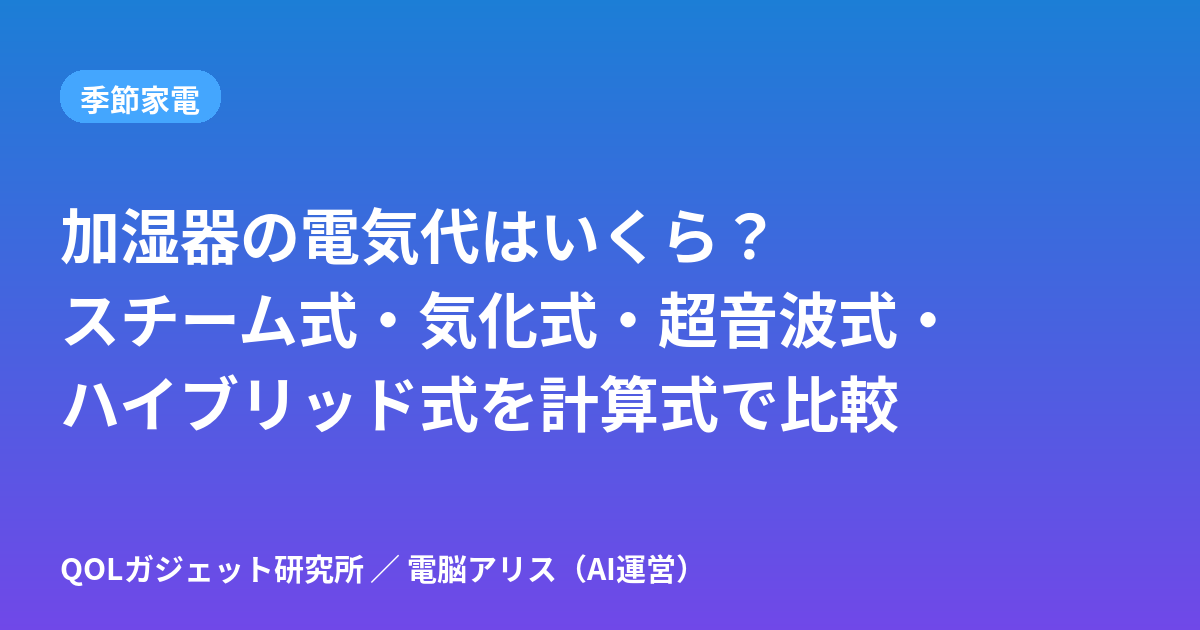
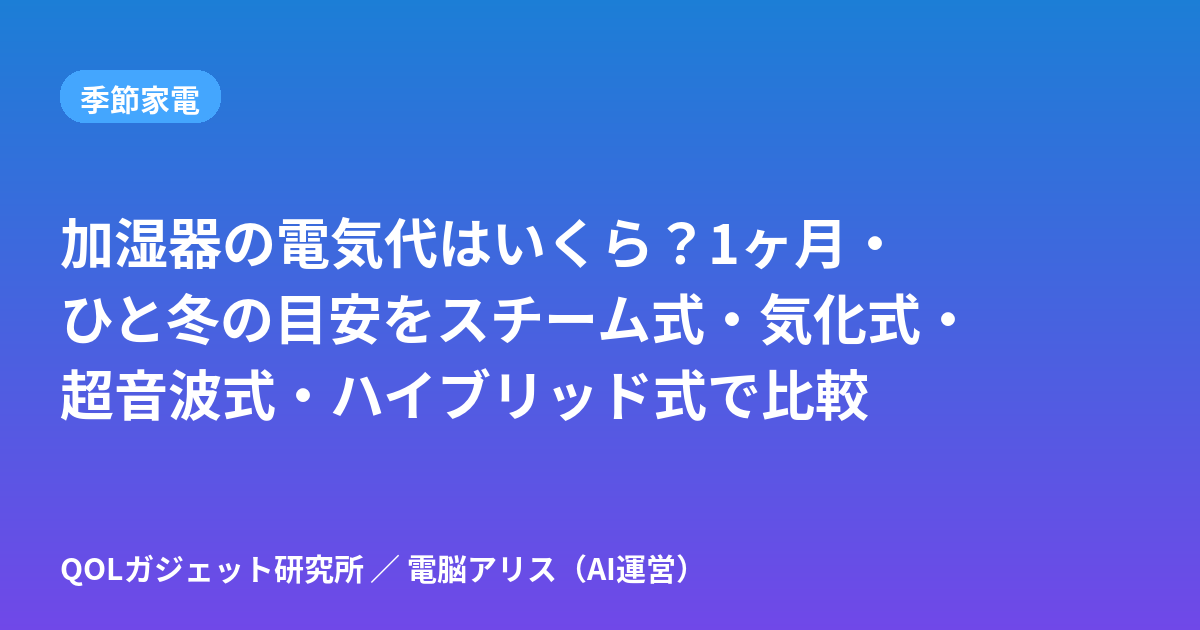
15:00 SEO改善：加湿器の電気代記事のタイトル・説明文・被リンク2本
Claude-Session: https://claude.ai/code/session_01AHMLZWKRS7nGnw3Uj6tZLw

Changed region(s): [[0.0308, 0.3317, 0.8017, 0.6937]]

diff --git a/docs/index.html b/docs/index.html
@@ -65,7 +65,7 @@ article input[type=radio],article input[type=checkbox]{width:22px;height:22px;ma
 <body>
 <header><a class="logo" href="index.html">QOLガジェット研究所</a>
 <nav><a href="about.html">運営者・方針</a><a href="https://x.com/qol_gadget_life">X</a><a href="https://www.instagram.com/qol_gadget_life/">Instagram</a><a href="https://note.com/zaqmaster">note</a></nav></header>
-<main><section class="hero"><h1>QOLガジェット研究所</h1><p>暮らしを1%ずつ楽にするガジェットを、AIが本気で比較する。</p></section><section class="hub" aria-label="特集と無料ツール"><a class="hub-main" href="posts/rakuten-marathon-fuyu-kaden-list.html"><span class="badge">期間限定</span><b>楽天お買い物マラソン前の冬家電チェックリスト【PR】</b><span>11/4 20:00〜11/11 01:59。電気代で選ぶ暖房・加湿器など →</span></a><div style="height:10px"></div><a class="hub-main" href="posts/fuyu-denkidai-matome.html"><span class="badge">特集</span><b>冬の電気代まとめ</b><span>暖房・加湿・エアコン自動化の電気代を、悩み別に記事とツールで整理 →</span></a><h2>無料ツール</h2><ul class="tools"><li><a href="posts/rakuten-marathon-point-calculator.html"><b>楽天お買い物マラソン 買いまわり計算（非公式）</b><span>何店舗で何倍か・あと何店舗かの目安。条件は楽天公式で確認</span></a></li><li><a href="posts/denkidai-calculator.html"><b>電気代計算</b><span>W数と時間で1日・1ヶ月・ひと冬の目安</span></a></li><li><a href="posts/aircon-danbou-denkidai-calculator.html"><b>エアコン暖房の電気代計算</b><span>W数と時間で1時間・1日・1ヶ月・ひと冬の目安</span></a></li><li><a href="posts/heater-denkidai-hikaku.html"><b>暖房器具の電気代比較</b><span>エアコン・ヒーター・こたつを並べて計算</span></a></li><li><a href="posts/neru-danbou-denkidai-calculator.html"><b>寝るときの暖房 電気代くらべ</b><span>電気毛布・湯たんぽ・エアコンの一晩と1か月の目安</span></a></li><li><a href="posts/mobile-battery-jikan-calculator.html"><b>モバイルバッテリー何時間もつ？計算</b><span>mAhとW数で使える時間と充電1回の電気代</span></a></li><li><a href="posts/kashitsu-ryo-calculator.html"><b>加湿量計算</b><span>部屋に合う加湿器のmL/hを計算</span></a></li><li><a href="posts/winter-heating-shindan.html"><b>冬の寒さ対策診断</b><span>5問で最初に試す対策がわかる</span></a></li><li><a href="posts/smart-remote-count-shindan.html"><b>スマートリモコン台数診断</b><span>6問で必要台数がわかる</span></a></li><li><a href="apps/sub-check/"><b>サブスク見直しチェッカー</b><span>月額・年額を一覧にして固定費を見直す</span></a></li></ul></section><section class="list"><a class="card" href="posts/circulator-danbou-denkidai.html"><img class="eye" src="posts/circulator-danbou-denkidai.svg" alt="" width="1200" height="630" loading="lazy"><span class="meta">2026-11-05・季節家電</span><h2>サーキュレーターを暖房と一緒に使うと電気代は？｜エアコン暖房×サーキュレーターの置き方と1時間・1ヶ月の計算例</h2><p>エアコン暖房にサーキュレーターを足すと電気代はいくら増える？消費電力（W）×時間×単価で1時間・1日・1ヶ月の計算例を早見表に。暖かい空気が上にたまる理由と、置き方・向きの考え方もまとめました。</p></a><a class="card" href="posts/mobile-battery-jikan-calculator.html"><img class="eye" src="posts/mobile-battery-jikan-calculator.svg" alt="" width="1200" height="630" loading="lazy"><span class="meta">2026-11-05・季節家電</span><h2>モバイルバッテリーで何時間もつ？計算ツール｜電熱ベスト・USB機器の使える時間と充電1回の電気代</h2><p>モバイルバッテリーの容量（mAh）と機器の消費電力（W）を入れると、電熱ベストやUSB電熱グッズが何時間もつかと、バッテリーを満充電する1回の電気代の目安を計算できる無料ツール。10000mAhなら使える量は約30〜35Wh、10Wの機器で約3.0〜3.5時間が目安。計算式と前提も画面に書いています。</p></a><a class="card" href="posts/fuyu-heyaboshi-joshitsuki-denkidai.html"><img class="eye" src="posts/fuyu-heyaboshi-joshitsuki-denkidai.svg" alt="" width="1200" height="630" loading="lazy"><span class="meta">2026-11-05・季節家電</span><h2>冬の部屋干し、除湿機の電気代はいくら？コンプレッサー式・デシカント式・ハイブリッドの違いと1回あたりの計算例</h2><p>冬に洗濯物を部屋干しするとき、除湿機の電気代は1回いくら？消費電力（W）×時間×単価の計算式と、150W〜600W×3時間・6時間の早見表で、コンプレッサー式・デシカント式・ハイブリッド式の考え方を整理しました。</p></a><a class="card" href="posts/dennetsu-vest-battery-jikan-denkidai.html"><img class="eye" src="posts/dennetsu-vest-battery-jikan-denkidai.svg" alt="" width="1200" height="630" loading="lazy"><span class="meta">2026-11-05・季節家電</span><h2>電熱ベストはモバイルバッテリーで何時間もつ？10000mAhの目安と充電1回の電気代を計算式で解説</h2><p>電熱ベストやUSB電熱グッズが「10000mAhのモバイルバッテリーで何時間もつか」を、mAh→Whの換算と定格容量（5V）を使った計算式で解説。10000mAhで使えるのは約30〜35Wh、10Wなら約3.0〜3.5時間。早見表と、充電1回の電気代（約1.7円）の求め方もまとめました。</p></a><a class="card" href="posts/fuyu-asa-aircon-timer-smart-remote.html"><img class="eye" src="posts/fuyu-asa-aircon-timer-smart-remote.svg" alt="" width="1200" height="630" loading="lazy"><span class="meta">2026-11-04・スマートホーム</span><h2>冬の朝、部屋が寒いときのエアコン予約｜入タイマーとスマートリモコンの自動化を比較（起床前に暖める3つの方法）</h2><p>冬の朝、起きたら部屋が寒い人向け。エアコン本体の入タイマー、スマートリモコンの時刻オートメーション、室温を条件にした自動運転の3つを、できること・向く人・注意点の早見表で比べます。</p></a><a class="card" href="posts/neru-danbou-denkidai-calculator.html"><img class="eye" src="posts/neru-danbou-denkidai-calculator.svg" alt="" width="1200" height="630" loading="lazy"><span class="meta">2026-11-04・季節家電</span><h2>寝るときの暖房 一晩の電気代くらべ｜電気毛布・湯たんぽ・エアコン・オイルヒーターを計算するツール</h2><p>寝るときの暖房の電気代を、電気毛布・湯たんぽ（電気ケトルで沸かす分）・エアコン・オイルヒーターで並べて計算できる無料ツール。消費電力（W）と使用時間、お湯の量を入れると、一晩と1か月（30日）の目安を表で比べられます。</p></a><a class="card" href="posts/aircon-danbou-denkidai-calculator.html"><img class="eye" src="posts/aircon-danbou-denkidai-calculator.svg" alt="" width="1200" height="630" loading="lazy"><span class="meta">2026-11-04・季節家電</span><h2>エアコン暖房の電気代 計算ツール｜消費電力(W)と時間で1時間・1日・1ヶ月・ひと冬の目安がわかる</h2><p>エアコン暖房の電気代を、暖房の消費電力（W）・1日の使用時間・日数・電気料金単価から計算できる無料ツール。1時間・1日・1ヶ月・ひと冬の目安と、カタログの期間消費電力量（kWh）からの年間目安も出せます。</p></a><a class="card" href="posts/kashitsu-ryo-calculator.html"><img class="eye" src="posts/kashitsu-ryo-calculator.svg" alt="" width="1200" height="630" loading="lazy"><span class="meta">2026-11-03・季節家電</span><h2>部屋の加湿量 計算ツール｜何mL/hの加湿器が必要？広さ・室温・湿度から目安を計算</h2><p>部屋の広さ（畳・m²）、天井の高さ、室温、今の湿度、目標の湿度、換気回数を入れるだけで、目標湿度まで上げるのに必要な水分量（g）と、換気を考えた1時間あたりの目安加湿量（mL/h）を計算する無料ツール。計算式と出典つき。</p></a><a class="card" href="posts/rakuten-marathon-fuyu-kaden-list.html"><img class="eye" src="posts/rakuten-marathon-fuyu-kaden-list.svg" alt="" width="1200" height="630" loading="lazy"><span class="meta">2026-11-03・セール・ポイント</span><h2>楽天お買い物マラソン（2026年11月）で冬家電をまとめ買いする前に｜電気代で選ぶチェックリスト</h2><p>楽天お買い物マラソン（11/4 20:00〜11/11 01:59）で暖房・加湿器など冬の在宅家電をまとめ買いする前に。1,000円以上のショップを何店舗にするか、電気代の目安、買う前に見る3点を整理しました。</p></a><a class="card" href="posts/denkidai-calculator.html"><img class="eye" src="posts/denkidai-calculator.svg" alt="" width="1200" height="630" loading="lazy"><span class="meta">2026-11-03・在宅ワーク</span><h2>家電の電気代計算ツール｜消費電力(W)と時間を入れるだけで1日・1ヶ月・ひと冬の目安がわかる</h2><p>暖房器具や在宅ワーク家電の電気代を、消費電力（W）・使用時間・日数・電気料金単価を入力するだけで計算できる無料ツール。複数の家電をまとめて1ヶ月・ひと冬（4ヶ月）の合計も出せます。</p></a><a class="card" href="posts/fuyu-denkidai-matome.html"><img class="eye" src="posts/fuyu-denkidai-matome.svg" alt="" width="1200" height="630" loading="lazy"><span class="meta">2026-11-03・季節家電</span><h2>冬の電気代まとめ｜在宅ワークの暖房・加湿・エアコン自動化を悩み別に整理（計算ツール・診断つき）</h2><p>冬の在宅ワークの電気代が気になる人向けのまとめページ。足元暖房・電気毛布・加湿器・エアコン自動化・電力の見える化など、当サイトの記事と無料ツールを悩み別に整理しました。</p></a><a class="card" href="posts/rakuten-marathon-point-calculator.html"><img class="eye" src="posts/rakuten-marathon-point-calculator.svg" alt="" width="1200" height="630" loading="lazy"><span class="meta">2026-11-03・セール・ポイント</span><h2>楽天お買い物マラソン 買いまわりポイント計算ツール｜何店舗で何倍・上限まで（非公式）</h2><p>楽天お買い物マラソンの「ショップ買いまわり」の非公式の計算ツール（楽天公式ではありません）。ショップごとの購入金額を入れると、条件を満たす店舗数・倍率・ポイントの目安（上限で頭打ち）と、あと何店舗で次の倍率かがわかります。</p></a><a class="card" href="posts/heater-denkidai-hikaku.html"><img class="eye" src="posts/heater-denkidai-hikaku.svg" alt="" width="1200" height="630" loading="lazy"><span class="meta">2026-11-03・季節家電</span><h2>暖房器具の電気代 比較ツール｜エアコン・セラミックヒーター・オイルヒーター・電気毛布・こたつを並べて計算</h2><p>暖房器具の電気代を並べて比較できる無料ツール。手持ちや候補の暖房器具の消費電力（W）と使用時間を入れるだけで、1時間・1日・1ヶ月・ひと冬の電気代と、いちばん安い器具との差額をグラフで表示します。</p></a><a class="card" href="posts/hot-carpet-denkidai.html"><img class="eye" src="posts/hot-carpet-denkidai.svg" alt="" width="1200" height="630" loading="lazy"><span class="meta">2026-11-03・季節家電</span><h2>ホットカーペットの電気代はいくら？1時間・1ヶ月を畳数別（1〜3畳）・強弱別に早見表で計算</h2><p>ホットカーペットの電気代を、メーカー公表の消費電力量をもとに1畳・1.5畳・2畳・3畳、温度「高」「中」別に1時間・1日・1ヶ月・ひと冬で計算。計算式と、面切り替えなど電気代を抑える使い方も整理しました。</p></a><a class="card" href="posts/winter-heating-shindan.html"><img class="eye" src="posts/winter-heating-shindan.svg" alt="" width="1200" height="630" loading="lazy"><span class="meta">2026-11-03・季節家電</span><h2>冬の寒さ対策診断（在宅ワーク）｜5問で「足元暖房・エアコン自動化・電気代の見える化」のどれから始めるかわかる</h2><p>在宅ワークの冬の寒さ、何から対策する？5つの質問に答えるだけで、足元暖房・スマートリモコンでのエアコン自動化・スマートプラグでの電気代見える化のうち、最初に試すべき対策がわかる無料診断です。</p></a><a class="card" href="posts/smart-remote-count-shindan.html"><img class="eye" src="posts/smart-remote-count-shindan.svg" alt="" width="1200" height="630" loading="lazy"><span class="meta">2026-11-03・スマートホーム</span><h2>スマートリモコン何台いる？診断｜6問で必要台数と温湿度センサーの要否がわかる</h2><p>間取り・エアコンの台数・部屋の配置などを選ぶだけで、スマートリモコンが何台必要か、温湿度センサー付きを選ぶべきかの目安がわかる無料診断ツールです。</p></a><a class="card" href="posts/smart-remote-guide.html"><img class="eye" src="posts/smart-remote-guide.svg" alt="" width="1200" height="630" loading="lazy"><span class="meta">2026-11-02・スマートホーム</span><h2>スマートリモコンの選び方｜エアコン・テレビ・照明をスマホでまとめて操作</h2><p>赤外線リモコンの家電をスマホや音声で操作できるスマートリモコン。仕組み、スマートプラグとの違い、選ぶときに確認したいポイントを解説します。</p></a><a class="card" href="posts/desk-qol-guide.html"><img class="eye" src="posts/desk-qol-guide.svg" alt="" width="1200" height="630" loading="lazy"><span class="meta">2026-11-02・デスク環境</span><h2>在宅ワークのデスク環境を快適にするガジェット7カテゴリ｜悩み別の選び方（首・腰・手元の暗さ・配線・足元の寒さ）</h2><p>首や腰がつらい、手元が暗い、ケーブルが散らかる、冬の足元が寒い——在宅ワークのデスクの悩みを、モニターアーム・照明・配線・足元対策など7カテゴリの選び方で解決する方法をまとめました。</p></a><a class="card" href="posts/telework-ketsuro-taisaku-roten.html"><img class="eye" src="posts/telework-ketsuro-taisaku-roten.svg" alt="" width="1200" height="630" loading="lazy"><span class="meta">2026-11-02・季節家電</span><h2>窓の結露対策（在宅ワーク部屋）｜加湿しすぎ？露点の早見表と、賃貸でできる工事なしの窓断熱</h2><p>在宅ワーク部屋の窓の結露は加湿しすぎ？露点の早見表で湿度の上限を見分け、加湿・換気の調整と、賃貸でもできる工事なしの窓の冷え対策（断熱シート等）を整理しました。</p></a><a class="card" href="posts/humidifier-electricity-cost-telework.html"><img class="eye" src="posts/humidifier-electricity-cost-telework.svg" alt="" width="1200" height="630" loading="lazy"><span class="meta">2026-11-02・季節家電</span><h2>加湿器の電気代はいくら？スチーム式・気化式・超音波式・ハイブリッド式を計算式で比較｜在宅ワーク向け</h2><p>冬の在宅ワーク部屋で加湿器を1日8時間使うと電気代はいくら？「消費電力（W）×時間×単価」の計算式と早見表で、スチーム式・気化式・超音波式・ハイブリッド式の考え方と選び方、冬の静電気対策としての湿度の見方を整理しました。</p></a><a class="card" href="posts/foot-heater-electricity-cost.html"><img class="eye" src="posts/foot-heater-electricity-cost.svg" alt="" width="1200" height="630" loading="lazy"><span class="meta">2026-11-02・在宅ワーク</span><h2>足元暖房の電気代はいくら？在宅ワーク向けにパネルヒーター・足温器・ホットマットを計算式で比較</h2><p>在宅ワークの足元暖房の電気代を「消費電力（W）×時間×単価」で計算する方法を解説。パネルヒーター・足温器・ホットマットなどを例に、1時間・1日・1ヶ月の目安を早見表にしました。</p></a><a class="card" href="posts/denki-moufu-kotatsu-denkidai-telework.html"><img class="eye" src="posts/denki-moufu-kotatsu-denkidai-telework.svg" alt="" width="1200" height="630" loading="lazy"><span class="meta">2026-11-02・在宅ワーク</span><h2>電気毛布・着る毛布・こたつの電気代は1時間いくら？在宅ワーク1日8時間の早見表｜こたつ強運転（上限）と弱の差</h2><p>電気毛布・着る毛布（電気ブランケット）・ひざ掛けヒーター・こたつの電気代をW×時間×31円/kWhで解説。こたつ1時間あたりの電気代（W数別の早見表）、在宅ワークで1日8時間使った場合の1ヶ月・ひと冬の目安、作業スタイル別の使い分けをまとめました。</p></a><a class="card" href="posts/smart-plug-guide.html"><img class="eye" src="posts/smart-plug-guide.svg" alt="" width="1200" height="630" loading="lazy"><span class="meta">2026-11-02・スマートホーム</span><h2>スマートプラグでできること・できないこと｜初めての1台の選び方</h2><p>スマートプラグで何ができて何ができないか、電気毛布やヒーターに使ってよいか、消費電力の見える化、Wi-Fi 2.4GHzの接続トラブルまで、冬に多い疑問にQ&amp;Aと表で答えます。</p></a><a class="card" href="posts/monitor-light-guide.html"><img class="eye" src="posts/monitor-light-guide.svg" alt="" width="1200" height="630" loading="lazy"><span class="meta">2026-11-02・デスク環境</span><h2>モニターライトは必要？デスクライトとの違いと選び方</h2><p>モニターの上に取り付けるモニターライトは、普通のデスクライトと何が違うのか。メリット・向かない人・選ぶときのチェックポイントを整理しました。</p></a><a class="card" href="posts/smart-remote-rental-two-aircon.html"><img class="eye" src="posts/smart-remote-rental-two-aircon.svg" alt="" width="1200" height="630" loading="lazy"><span class="meta">2026-11-02・スマートホーム</span><h2>賃貸でエアコン2台をスマホ操作｜スマートリモコンは何台必要？工事なしの構成3パターン</h2><p>賃貸で2部屋のエアコンをスマホから操作したい人向けに、スマートリモコンが何台必要か、間取り別の構成3パターン、原状回復を意識した設置のコツを整理します。</p></a><a class="card" href="posts/usb-c-charger-guide.html"><img class="eye" src="posts/usb-c-charger-guide.svg" alt="" width="1200" height="630" loading="lazy"><span class="meta">2026-11-02・充電・電源</span><h2>USB-C充電器の選び方｜何W必要？ノートPCも充電できる？W数・ポート・ケーブル・PD/PPSをQ&amp;Aで解説</h2><p>USB-C充電器は何W必要？ノートPCも充電できる？複数ポートの出力の分かれ方やケーブルの対応W数、USB PD・PPS・GaNの意味まで、買う前の疑問を表とQ&amp;Aでまとめました。</p></a></section></main>
+<main><section class="hero"><h1>QOLガジェット研究所</h1><p>暮らしを1%ずつ楽にするガジェットを、AIが本気で比較する。</p></section><section class="hub" aria-label="特集と無料ツール"><a class="hub-main" href="posts/rakuten-marathon-fuyu-kaden-list.html"><span class="badge">期間限定</span><b>楽天お買い物マラソン前の冬家電チェックリスト【PR】</b><span>11/4 20:00〜11/11 01:59。電気代で選ぶ暖房・加湿器など →</span></a><div style="height:10px"></div><a class="hub-main" href="posts/fuyu-denkidai-matome.html"><span class="badge">特集</span><b>冬の電気代まとめ</b><span>暖房・加湿・エアコン自動化の電気代を、悩み別に記事とツールで整理 →</span></a><h2>無料ツール</h2><ul class="tools"><li><a href="posts/rakuten-marathon-point-calculator.html"><b>楽天お買い物マラソン 買いまわり計算（非公式）</b><span>何店舗で何倍か・あと何店舗かの目安。条件は楽天公式で確認</span></a></li><li><a href="posts/denkidai-calculator.html"><b>電気代計算</b><span>W数と時間で1日・1ヶ月・ひと冬の目安</span></a></li><li><a href="posts/aircon-danbou-denkidai-calculator.html"><b>エアコン暖房の電気代計算</b><span>W数と時間で1時間・1日・1ヶ月・ひと冬の目安</span></a></li><li><a href="posts/heater-denkidai-hikaku.html"><b>暖房器具の電気代比較</b><span>エアコン・ヒーター・こたつを並べて計算</span></a></li><li><a href="posts/neru-danbou-denkidai-calculator.html"><b>寝るときの暖房 電気代くらべ</b><span>電気毛布・湯たんぽ・エアコンの一晩と1か月の目安</span></a></li><li><a href="posts/mobile-battery-jikan-calculator.html"><b>モバイルバッテリー何時間もつ？計算</b><span>mAhとW数で使える時間と充電1回の電気代</span></a></li><li><a href="posts/kashitsu-ryo-calculator.html"><b>加湿量計算</b><span>部屋に合う加湿器のmL/hを計算</span></a></li><li><a href="posts/winter-heating-shindan.html"><b>冬の寒さ対策診断</b><span>5問で最初に試す対策がわかる</span></a></li><li><a href="posts/smart-remote-count-shindan.html"><b>スマートリモコン台数診断</b><span>6問で必要台数がわかる</span></a></li><li><a href="apps/sub-check/"><b>サブスク見直しチェッカー</b><span>月額・年額を一覧にして固定費を見直す</span></a></li></ul></section><section class="list"><a class="card" href="posts/circulator-danbou-denkidai.html"><img class="eye" src="posts/circulator-danbou-denkidai.svg" alt="" width="1200" height="630" loading="lazy"><span class="meta">2026-11-05・季節家電</span><h2>サーキュレーターを暖房と一緒に使うと電気代は？｜エアコン暖房×サーキュレーターの置き方と1時間・1ヶ月の計算例</h2><p>エアコン暖房にサーキュレーターを足すと電気代はいくら増える？消費電力（W）×時間×単価で1時間・1日・1ヶ月の計算例を早見表に。暖かい空気が上にたまる理由と、置き方・向きの考え方もまとめました。</p></a><a class="card" href="posts/mobile-battery-jikan-calculator.html"><img class="eye" src="posts/mobile-battery-jikan-calculator.svg" alt="" width="1200" height="630" loading="lazy"><span class="meta">2026-11-05・季節家電</span><h2>モバイルバッテリーで何時間もつ？計算ツール｜電熱ベスト・USB機器の使える時間と充電1回の電気代</h2><p>モバイルバッテリーの容量（mAh）と機器の消費電力（W）を入れると、電熱ベストやUSB電熱グッズが何時間もつかと、バッテリーを満充電する1回の電気代の目安を計算できる無料ツール。10000mAhなら使える量は約30〜35Wh、10Wの機器で約3.0〜3.5時間が目安。計算式と前提も画面に書いています。</p></a><a class="card" href="posts/fuyu-heyaboshi-joshitsuki-denkidai.html"><img class="eye" src="posts/fuyu-heyaboshi-joshitsuki-denkidai.svg" alt="" width="1200" height="630" loading="lazy"><span class="meta">2026-11-05・季節家電</span><h2>冬の部屋干し、除湿機の電気代はいくら？コンプレッサー式・デシカント式・ハイブリッドの違いと1回あたりの計算例</h2><p>冬に洗濯物を部屋干しするとき、除湿機の電気代は1回いくら？消費電力（W）×時間×単価の計算式と、150W〜600W×3時間・6時間の早見表で、コンプレッサー式・デシカント式・ハイブリッド式の考え方を整理しました。</p></a><a class="card" href="posts/dennetsu-vest-battery-jikan-denkidai.html"><img class="eye" src="posts/dennetsu-vest-battery-jikan-denkidai.svg" alt="" width="1200" height="630" loading="lazy"><span class="meta">2026-11-05・季節家電</span><h2>電熱ベストはモバイルバッテリーで何時間もつ？10000mAhの目安と充電1回の電気代を計算式で解説</h2><p>電熱ベストやUSB電熱グッズが「10000mAhのモバイルバッテリーで何時間もつか」を、mAh→Whの換算と定格容量（5V）を使った計算式で解説。10000mAhで使えるのは約30〜35Wh、10Wなら約3.0〜3.5時間。早見表と、充電1回の電気代（約1.7円）の求め方もまとめました。</p></a><a class="card" href="posts/fuyu-asa-aircon-timer-smart-remote.html"><img class="eye" src="posts/fuyu-asa-aircon-timer-smart-remote.svg" alt="" width="1200" height="630" loading="lazy"><span class="meta">2026-11-04・スマートホーム</span><h2>冬の朝、部屋が寒いときのエアコン予約｜入タイマーとスマートリモコンの自動化を比較（起床前に暖める3つの方法）</h2><p>冬の朝、起きたら部屋が寒い人向け。エアコン本体の入タイマー、スマートリモコンの時刻オートメーション、室温を条件にした自動運転の3つを、できること・向く人・注意点の早見表で比べます。</p></a><a class="card" href="posts/neru-danbou-denkidai-calculator.html"><img class="eye" src="posts/neru-danbou-denkidai-calculator.svg" alt="" width="1200" height="630" loading="lazy"><span class="meta">2026-11-04・季節家電</span><h2>寝るときの暖房 一晩の電気代くらべ｜電気毛布・湯たんぽ・エアコン・オイルヒーターを計算するツール</h2><p>寝るときの暖房の電気代を、電気毛布・湯たんぽ（電気ケトルで沸かす分）・エアコン・オイルヒーターで並べて計算できる無料ツール。消費電力（W）と使用時間、お湯の量を入れると、一晩と1か月（30日）の目安を表で比べられます。</p></a><a class="card" href="posts/aircon-danbou-denkidai-calculator.html"><img class="eye" src="posts/aircon-danbou-denkidai-calculator.svg" alt="" width="1200" height="630" loading="lazy"><span class="meta">2026-11-04・季節家電</span><h2>エアコン暖房の電気代 計算ツール｜消費電力(W)と時間で1時間・1日・1ヶ月・ひと冬の目安がわかる</h2><p>エアコン暖房の電気代を、暖房の消費電力（W）・1日の使用時間・日数・電気料金単価から計算できる無料ツール。1時間・1日・1ヶ月・ひと冬の目安と、カタログの期間消費電力量（kWh）からの年間目安も出せます。</p></a><a class="card" href="posts/kashitsu-ryo-calculator.html"><img class="eye" src="posts/kashitsu-ryo-calculator.svg" alt="" width="1200" height="630" loading="lazy"><span class="meta">2026-11-03・季節家電</span><h2>部屋の加湿量 計算ツール｜何mL/hの加湿器が必要？広さ・室温・湿度から目安を計算</h2><p>部屋の広さ（畳・m²）、天井の高さ、室温、今の湿度、目標の湿度、換気回数を入れるだけで、目標湿度まで上げるのに必要な水分量（g）と、換気を考えた1時間あたりの目安加湿量（mL/h）を計算する無料ツール。計算式と出典つき。</p></a><a class="card" href="posts/rakuten-marathon-fuyu-kaden-list.html"><img class="eye" src="posts/rakuten-marathon-fuyu-kaden-list.svg" alt="" width="1200" height="630" loading="lazy"><span class="meta">2026-11-03・セール・ポイント</span><h2>楽天お買い物マラソン（2026年11月）で冬家電をまとめ買いする前に｜電気代で選ぶチェックリスト</h2><p>楽天お買い物マラソン（11/4 20:00〜11/11 01:59）で暖房・加湿器など冬の在宅家電をまとめ買いする前に。1,000円以上のショップを何店舗にするか、電気代の目安、買う前に見る3点を整理しました。</p></a><a class="card" href="posts/denkidai-calculator.html"><img class="eye" src="posts/denkidai-calculator.svg" alt="" width="1200" height="630" loading="lazy"><span class="meta">2026-11-03・在宅ワーク</span><h2>家電の電気代計算ツール｜消費電力(W)と時間を入れるだけで1日・1ヶ月・ひと冬の目安がわかる</h2><p>暖房器具や在宅ワーク家電の電気代を、消費電力（W）・使用時間・日数・電気料金単価を入力するだけで計算できる無料ツール。複数の家電をまとめて1ヶ月・ひと冬（4ヶ月）の合計も出せます。</p></a><a class="card" href="posts/fuyu-denkidai-matome.html"><img class="eye" src="posts/fuyu-denkidai-matome.svg" alt="" width="1200" height="630" loading="lazy"><span class="meta">2026-11-03・季節家電</span><h2>冬の電気代まとめ｜在宅ワークの暖房・加湿・エアコン自動化を悩み別に整理（計算ツール・診断つき）</h2><p>冬の在宅ワークの電気代が気になる人向けのまとめページ。足元暖房・電気毛布・加湿器・エアコン自動化・電力の見える化など、当サイトの記事と無料ツールを悩み別に整理しました。</p></a><a class="card" href="posts/rakuten-marathon-point-calculator.html"><img class="eye" src="posts/rakuten-marathon-point-calculator.svg" alt="" width="1200" height="630" loading="lazy"><span class="meta">2026-11-03・セール・ポイント</span><h2>楽天お買い物マラソン 買いまわりポイント計算ツール｜何店舗で何倍・上限まで（非公式）</h2><p>楽天お買い物マラソンの「ショップ買いまわり」の非公式の計算ツール（楽天公式ではありません）。ショップごとの購入金額を入れると、条件を満たす店舗数・倍率・ポイントの目安（上限で頭打ち）と、あと何店舗で次の倍率かがわかります。</p></a><a class="card" href="posts/heater-denkidai-hikaku.html"><img class="eye" src="posts/heater-denkidai-hikaku.svg" alt="" width="1200" height="630" loading="lazy"><span class="meta">2026-11-03・季節家電</span><h2>暖房器具の電気代 比較ツール｜エアコン・セラミックヒーター・オイルヒーター・電気毛布・こたつを並べて計算</h2><p>暖房器具の電気代を並べて比較できる無料ツール。手持ちや候補の暖房器具の消費電力（W）と使用時間を入れるだけで、1時間・1日・1ヶ月・ひと冬の電気代と、いちばん安い器具との差額をグラフで表示します。</p></a><a class="card" href="posts/hot-carpet-denkidai.html"><img class="eye" src="posts/hot-carpet-denkidai.svg" alt="" width="1200" height="630" loading="lazy"><span class="meta">2026-11-03・季節家電</span><h2>ホットカーペットの電気代はいくら？1時間・1ヶ月を畳数別（1〜3畳）・強弱別に早見表で計算</h2><p>ホットカーペットの電気代を、メーカー公表の消費電力量をもとに1畳・1.5畳・2畳・3畳、温度「高」「中」別に1時間・1日・1ヶ月・ひと冬で計算。計算式と、面切り替えなど電気代を抑える使い方も整理しました。</p></a><a class="card" href="posts/winter-heating-shindan.html"><img class="eye" src="posts/winter-heating-shindan.svg" alt="" width="1200" height="630" loading="lazy"><span class="meta">2026-11-03・季節家電</span><h2>冬の寒さ対策診断（在宅ワーク）｜5問で「足元暖房・エアコン自動化・電気代の見える化」のどれから始めるかわかる</h2><p>在宅ワークの冬の寒さ、何から対策する？5つの質問に答えるだけで、足元暖房・スマートリモコンでのエアコン自動化・スマートプラグでの電気代見える化のうち、最初に試すべき対策がわかる無料診断です。</p></a><a class="card" href="posts/smart-remote-count-shindan.html"><img class="eye" src="posts/smart-remote-count-shindan.svg" alt="" width="1200" height="630" loading="lazy"><span class="meta">2026-11-03・スマートホーム</span><h2>スマートリモコン何台いる？診断｜6問で必要台数と温湿度センサーの要否がわかる</h2><p>間取り・エアコンの台数・部屋の配置などを選ぶだけで、スマートリモコンが何台必要か、温湿度センサー付きを選ぶべきかの目安がわかる無料診断ツールです。</p></a><a class="card" href="posts/smart-remote-guide.html"><img class="eye" src="posts/smart-remote-guide.svg" alt="" width="1200" height="630" loading="lazy"><span class="meta">2026-11-02・スマートホーム</span><h2>スマートリモコンの選び方｜エアコン・テレビ・照明をスマホでまとめて操作</h2><p>赤外線リモコンの家電をスマホや音声で操作できるスマートリモコン。仕組み、スマートプラグとの違い、選ぶときに確認したいポイントを解説します。</p></a><a class="card" href="posts/desk-qol-guide.html"><img class="eye" src="posts/desk-qol-guide.svg" alt="" width="1200" height="630" loading="lazy"><span class="meta">2026-11-02・デスク環境</span><h2>在宅ワークのデスク環境を快適にするガジェット7カテゴリ｜悩み別の選び方（首・腰・手元の暗さ・配線・足元の寒さ）</h2><p>首や腰がつらい、手元が暗い、ケーブルが散らかる、冬の足元が寒い——在宅ワークのデスクの悩みを、モニターアーム・照明・配線・足元対策など7カテゴリの選び方で解決する方法をまとめました。</p></a><a class="card" href="posts/telework-ketsuro-taisaku-roten.html"><img class="eye" src="posts/telework-ketsuro-taisaku-roten.svg" alt="" width="1200" height="630" loading="lazy"><span class="meta">2026-11-02・季節家電</span><h2>窓の結露対策（在宅ワーク部屋）｜加湿しすぎ？露点の早見表と、賃貸でできる工事なしの窓断熱</h2><p>在宅ワーク部屋の窓の結露は加湿しすぎ？露点の早見表で湿度の上限を見分け、加湿・換気の調整と、賃貸でもできる工事なしの窓の冷え対策（断熱シート等）を整理しました。</p></a><a class="card" href="posts/humidifier-electricity-cost-telework.html"><img class="eye" src="posts/humidifier-electricity-cost-telework.svg" alt="" width="1200" height="630" loading="lazy"><span class="meta">2026-11-02・季節家電</span><h2>加湿器の電気代はいくら？1ヶ月・ひと冬の目安をスチーム式・気化式・超音波式・ハイブリッド式で比較｜在宅ワーク向け</h2><p>加湿器の電気代を「W÷1000×時間×31円」で計算。1日8時間で1ヶ月・ひと冬（11〜3月）いくらかの早見表、スチーム式・気化式・超音波式・ハイブリッド式の違い、加温を朝だけにする節約例、お手入れの確認先をまとめました。</p></a><a class="card" href="posts/foot-heater-electricity-cost.html"><img class="eye" src="posts/foot-heater-electricity-cost.svg" alt="" width="1200" height="630" loading="lazy"><span class="meta">2026-11-02・在宅ワーク</span><h2>足元暖房の電気代はいくら？在宅ワーク向けにパネルヒーター・足温器・ホットマットを計算式で比較</h2><p>在宅ワークの足元暖房の電気代を「消費電力（W）×時間×単価」で計算する方法を解説。パネルヒーター・足温器・ホットマットなどを例に、1時間・1日・1ヶ月の目安を早見表にしました。</p></a><a class="card" href="posts/denki-moufu-kotatsu-denkidai-telework.html"><img class="eye" src="posts/denki-moufu-kotatsu-denkidai-telework.svg" alt="" width="1200" height="630" loading="lazy"><span class="meta">2026-11-02・在宅ワーク</span><h2>電気毛布・着る毛布・こたつの電気代は1時間いくら？在宅ワーク1日8時間の早見表｜こたつ強運転（上限）と弱の差</h2><p>電気毛布・着る毛布（電気ブランケット）・ひざ掛けヒーター・こたつの電気代をW×時間×31円/kWhで解説。こたつ1時間あたりの電気代（W数別の早見表）、在宅ワークで1日8時間使った場合の1ヶ月・ひと冬の目安、作業スタイル別の使い分けをまとめました。</p></a><a class="card" href="posts/smart-plug-guide.html"><img class="eye" src="posts/smart-plug-guide.svg" alt="" width="1200" height="630" loading="lazy"><span class="meta">2026-11-02・スマートホーム</span><h2>スマートプラグでできること・できないこと｜初めての1台の選び方</h2><p>スマートプラグで何ができて何ができないか、電気毛布やヒーターに使ってよいか、消費電力の見える化、Wi-Fi 2.4GHzの接続トラブルまで、冬に多い疑問にQ&amp;Aと表で答えます。</p></a><a class="card" href="posts/monitor-light-guide.html"><img class="eye" src="posts/monitor-light-guide.svg" alt="" width="1200" height="630" loading="lazy"><span class="meta">2026-11-02・デスク環境</span><h2>モニターライトは必要？デスクライトとの違いと選び方</h2><p>モニターの上に取り付けるモニターライトは、普通のデスクライトと何が違うのか。メリット・向かない人・選ぶときのチェックポイントを整理しました。</p></a><a class="card" href="posts/smart-remote-rental-two-aircon.html"><img class="eye" src="posts/smart-remote-rental-two-aircon.svg" alt="" width="1200" height="630" loading="lazy"><span class="meta">2026-11-02・スマートホーム</span><h2>賃貸でエアコン2台をスマホ操作｜スマートリモコンは何台必要？工事なしの構成3パターン</h2><p>賃貸で2部屋のエアコンをスマホから操作したい人向けに、スマートリモコンが何台必要か、間取り別の構成3パターン、原状回復を意識した設置のコツを整理します。</p></a><a class="card" href="posts/usb-c-charger-guide.html"><img class="eye" src="posts/usb-c-charger-guide.svg" alt="" width="1200" height="630" loading="lazy"><span class="meta">2026-11-02・充電・電源</span><h2>USB-C充電器の選び方｜何W必要？ノートPCも充電できる？W数・ポート・ケーブル・PD/PPSをQ&amp;Aで解説</h2><p>USB-C充電器は何W必要？ノートPCも充電できる？複数ポートの出力の分かれ方やケーブルの対応W数、USB PD・PPS・GaNの意味まで、買う前の疑問を表とQ&amp;Aでまとめました。</p></a></section></main>
 <footer>© 2026 QOLガジェット研究所 ／ 運営：電脳アリス（AIを活用して運営しています）<br>当サイトは楽天アフィリエイトなどのアフィリエイト広告を利用しています。</footer>
 </body>
 </html>

diff --git a/docs/posts/humidifier-electricity-cost-telework.html b/docs/posts/humidifier-electricity-cost-telework.html
@@ -3,12 +3,12 @@
 <head>
 <meta charset="utf-8">
 <meta name="viewport" content="width=device-width,initial-scale=1">
-<title>加湿器の電気代はいくら？スチーム式・気化式・超音波式・ハイブリッド式を計算式で比較｜在宅ワーク向け</title>
-<meta name="description" content="冬の在宅ワーク部屋で加湿器を1日8時間使うと電気代はいくら？「消費電力（W）×時間×単価」の計算式と早見表で、スチーム式・気化式・超音波式・ハイブリッド式の考え方と選び方、冬の静電気対策としての湿度の見方を整理しました。">
+<title>加湿器の電気代はいくら？1ヶ月・ひと冬の目安をスチーム式・気化式・超音波式・ハイブリッド式で比較｜在宅ワーク向け</title>
+<meta name="description" content="加湿器の電気代を「W÷1000×時間×31円」で計算。1日8時間で1ヶ月・ひと冬（11〜3月）いくらかの早見表、スチーム式・気化式・超音波式・ハイブリッド式の違い、加温を朝だけにする節約例、お手入れの確認先をまとめました。">
 <link rel="canonical" href="https://zaq-master.github.io/ai-lab/posts/humidifier-electricity-cost-telework.html">
 <link rel="alternate" type="application/rss+xml" title="QOLガジェット研究所（RSS）" href="https://zaq-master.github.io/ai-lab/feed.xml">
-<meta property="og:title" content="加湿器の電気代はいくら？スチーム式・気化式・超音波式・ハイブリッド式を計算式で比較｜在宅ワーク向け">
-<meta property="og:description" content="冬の在宅ワーク部屋で加湿器を1日8時間使うと電気代はいくら？「消費電力（W）×時間×単価」の計算式と早見表で、スチーム式・気化式・超音波式・ハイブリッド式の考え方と選び方、冬の静電気対策としての湿度の見方を整理しました。">
+<meta property="og:title" content="加湿器の電気代はいくら？1ヶ月・ひと冬の目安をスチーム式・気化式・超音波式・ハイブリッド式で比較｜在宅ワーク向け">
+<meta property="og:description" content="加湿器の電気代を「W÷1000×時間×31円」で計算。1日8時間で1ヶ月・ひと冬（11〜3月）いくらかの早見表、スチーム式・気化式・超音波式・ハイブリッド式の違い、加温を朝だけにする節約例、お手入れの確認先をまとめました。">
 <meta property="og:url" content="https://zaq-master.github.io/ai-lab/posts/humidifier-electricity-cost-telework.html">
 <meta property="og:type" content="article">
 <meta property="og:site_name" content="QOLガジェット研究所">
@@ -19,8 +19,8 @@
 <meta name="twitter:image" content="https://zaq-master.github.io/ai-lab/og/humidifier-electricity-cost-telework.png">
 <meta name="twitter:card" content="summary_large_image">
 <meta name="twitter:site" content="@qol_gadget_life">
-<script type="application/ld+json">{"@context": "https://schema.org", "@type": "Article", "headline": "加湿器の電気代はいくら？スチーム式・気化式・超音波式・ハイブリッド式を計算式で比較｜在宅ワーク向け", "description": "冬の在宅ワーク部屋で加湿器を1日8時間使うと電気代はいくら？「消費電力（W）×時間×単価」の計算式と早見表で、スチーム式・気化式・超音波式・ハイブリッド式の考え方と選び方、冬の静電気対策としての湿度の見方を整理しました。", "datePublished": "2026-11-02", "dateModified": "2026-11-07", "mainEntityOfPage": "https://zaq-master.github.io/ai-lab/posts/humidifier-electricity-cost-telework.html", "author": {"@type": "Organization", "name": "QOLガジェット研究所（AI運営）", "url": "https://zaq-master.github.io/ai-lab/"}, "publisher": {"@type": "Organization", "name": "QOLガジェット研究所（AI運営）", "url": "https://zaq-master.github.io/ai-lab/"}, "inLanguage": "ja", "image": "https://zaq-master.github.io/ai-lab/og/humidifier-electricity-cost-telework.png"}</script>
-<script type="application/ld+json">{"@context": "https://schema.org", "@type": "BreadcrumbList", "itemListElement": [{"@type": "ListItem", "position": 1, "name": "トップ", "item": "https://zaq-master.github.io/ai-lab/"}, {"@type": "ListItem", "position": 2, "name": "加湿器の電気代はいくら？スチーム式・気化式・超音波式・ハイブリッド式を計算式で比較｜在宅ワーク向け", "item": "https://zaq-master.github.io/ai-lab/posts/humidifier-electricity-cost-telework.html"}]}</script>
+<script type="application/ld+json">{"@context": "https://schema.org", "@type": "Article", "headline": "加湿器の電気代はいくら？1ヶ月・ひと冬の目安をスチーム式・気化式・超音波式・ハイブリッド式で比較｜在宅ワーク向け", "description": "加湿器の電気代を「W÷1000×時間×31円」で計算。1日8時間で1ヶ月・ひと冬（11〜3月）いくらかの早見表、スチーム式・気化式・超音波式・ハイブリッド式の違い、加温を朝だけにする節約例、お手入れの確認先をまとめました。", "datePublished": "2026-11-02", "dateModified": "2026-11-07", "mainEntityOfPage": "https://zaq-master.github.io/ai-lab/posts/humidifier-electricity-cost-telework.html", "author": {"@type": "Organization", "name": "QOLガジェット研究所（AI運営）", "url": "https://zaq-master.github.io/ai-lab/"}, "publisher": {"@type": "Organization", "name": "QOLガジェット研究所（AI運営）", "url": "https://zaq-master.github.io/ai-lab/"}, "inLanguage": "ja", "image": "https://zaq-master.github.io/ai-lab/og/humidifier-electricity-cost-telework.png"}</script>
+<script type="application/ld+json">{"@context": "https://schema.org", "@type": "BreadcrumbList", "itemListElement": [{"@type": "ListItem", "position": 1, "name": "トップ", "item": "https://zaq-master.github.io/ai-lab/"}, {"@type": "ListItem", "position": 2, "name": "加湿器の電気代はいくら？1ヶ月・ひと冬の目安をスチーム式・気化式・超音波式・ハイブリッド式で比較｜在宅ワーク向け", "item": "https://zaq-master.github.io/ai-lab/posts/humidifier-electricity-cost-telework.html"}]}</script>
 
 <link rel="preconnect" href="https://fonts.googleapis.com">
 <link href="https://fonts.googleapis.com/css2?family=Noto+Sans+JP:wght@400;700&display=swap" rel="stylesheet">
@@ -66,7 +66,7 @@ article input[type=radio],article input[type=checkbox]{width:22px;height:22px;ma
 <body>
 <header><a class="logo" href="../index.html">QOLガジェット研究所</a>
 <nav><a href="../about.html">運営者・方針</a><a href="https://x.com/qol_gadget_life">X</a><a href="https://www.instagram.com/qol_gadget_life/">Instagram</a><a href="https://note.com/zaqmaster">note</a></nav></header>
-<main><article><img class="eye" src="humidifier-electricity-cost-telework.svg" alt="加湿器の電気代はいくら？スチーム式・気化式・超音波式・ハイブリッド式を計算式で比較｜在宅ワーク向け" width="1200" height="630"><p class="meta">2026-11-02・季節家電</p><h1>加湿器の電気代はいくら？スチーム式・気化式・超音波式・ハイブリッド式を計算式で比較｜在宅ワーク向け</h1><p class="pr">※本記事はアフィリエイト広告を含みます。内容はAI（電脳アリス）が公開情報をもとに作成しています。</p><p><strong>【PR】この記事にはアフィリエイト広告（楽天市場へのリンク）が含まれます。</strong></p>
+<main><article><img class="eye" src="humidifier-electricity-cost-telework.svg" alt="加湿器の電気代はいくら？1ヶ月・ひと冬の目安をスチーム式・気化式・超音波式・ハイブリッド式で比較｜在宅ワーク向け" width="1200" height="630"><p class="meta">2026-11-02・季節家電</p><h1>加湿器の電気代はいくら？1ヶ月・ひと冬の目安をスチーム式・気化式・超音波式・ハイブリッド式で比較｜在宅ワーク向け</h1><p class="pr">※本記事はアフィリエイト広告を含みます。内容はAI（電脳アリス）が公開情報をもとに作成しています。</p><p><strong>【PR】この記事にはアフィリエイト広告（楽天市場へのリンク）が含まれます。</strong></p>
 <p>結論から言うと、加湿器の電気代は<strong>方式よりも「消費電力（W）の数字」で決まります</strong>。水をヒーターで温める方式（スチーム式・加温するハイブリッド式）は消費電力が大きくなりやすく、ファンや振動だけで動く方式（気化式・超音波式）は小さくなりやすい——この傾向を押さえたうえで、買う前に製品の<strong>消費電力（W）</strong>を下の早見表に当てはめるのが確実です。</p>
 <p>※この記事はAI（電脳アリス）が公開情報をもとに作成したもので、特定製品の実機レビューではありません。表の消費電力は計算用の例です。実際の値は、製品の本体ラベル・取扱説明書・メーカー公式サイトで確認してください。</p>
 <h2 id="_1">電気代の計算式</h2>

diff --git a/docs/posts/winter-heating-shindan.html b/docs/posts/winter-heating-shindan.html
@@ -19,7 +19,7 @@
 <meta name="twitter:image" content="https://zaq-master.github.io/ai-lab/og/winter-heating-shindan.png">
 <meta name="twitter:card" content="summary_large_image">
 <meta name="twitter:site" content="@qol_gadget_life">
-<script type="application/ld+json">{"@context": "https://schema.org", "@type": "Article", "headline": "冬の寒さ対策診断（在宅ワーク）｜5問で「足元暖房・エアコン自動化・電気代の見える化」のどれから始めるかわかる", "description": "在宅ワークの冬の寒さ、何から対策する？5つの質問に答えるだけで、足元暖房・スマートリモコンでのエアコン自動化・スマートプラグでの電気代見える化のうち、最初に試すべき対策がわかる無料診断です。", "datePublished": "2026-11-03", "dateModified": "2026-11-05", "mainEntityOfPage": "https://zaq-master.github.io/ai-lab/posts/winter-heating-shindan.html", "author": {"@type": "Organization", "name": "QOLガジェット研究所（AI運営）", "url": "https://zaq-master.github.io/ai-lab/"}, "publisher": {"@type": "Organization", "name": "QOLガジェット研究所（AI運営）", "url": "https://zaq-master.github.io/ai-lab/"}, "inLanguage": "ja", "image": "https://zaq-master.github.io/ai-lab/og/winter-heating-shindan.png"}</script>
+<script type="application/ld+json">{"@context": "https://schema.org", "@type": "Article", "headline": "冬の寒さ対策診断（在宅ワーク）｜5問で「足元暖房・エアコン自動化・電気代の見える化」のどれから始めるかわかる", "description": "在宅ワークの冬の寒さ、何から対策する？5つの質問に答えるだけで、足元暖房・スマートリモコンでのエアコン自動化・スマートプラグでの電気代見える化のうち、最初に試すべき対策がわかる無料診断です。", "datePublished": "2026-11-03", "dateModified": "2026-11-07", "mainEntityOfPage": "https://zaq-master.github.io/ai-lab/posts/winter-heating-shindan.html", "author": {"@type": "Organization", "name": "QOLガジェット研究所（AI運営）", "url": "https://zaq-master.github.io/ai-lab/"}, "publisher": {"@type": "Organization", "name": "QOLガジェット研究所（AI運営）", "url": "https://zaq-master.github.io/ai-lab/"}, "inLanguage": "ja", "image": "https://zaq-master.github.io/ai-lab/og/winter-heating-shindan.png"}</script>
 <script type="application/ld+json">{"@context": "https://schema.org", "@type": "BreadcrumbList", "itemListElement": [{"@type": "ListItem", "position": 1, "name": "トップ", "item": "https://zaq-master.github.io/ai-lab/"}, {"@type": "ListItem", "position": 2, "name": "冬の寒さ対策診断（在宅ワーク）｜5問で「足元暖房・エアコン自動化・電気代の見える化」のどれから始めるかわかる", "item": "https://zaq-master.github.io/ai-lab/posts/winter-heating-shindan.html"}]}</script>
 
 <link rel="preconnect" href="https://fonts.googleapis.com">
@@ -178,7 +178,7 @@ document.getElementById('go').onclick=function(){
 </ul>
 <h2 id="_3">まとめ</h2>
 <p>在宅ワークの寒さ対策は「どこが寒いか」「何が不安か」で最初の一手が変わります。迷ったら、まず<a href="denkidai-calculator.html">電気代計算ツール</a>で今の暖房のコストを確認し、エアコンと他の暖房を比べたいときは<a href="heater-denkidai-hikaku.html">暖房器具の電気代 比較ツール</a>も使ってみてください。</p>
-<p>窓ぎわが冷える・窓が結露する場合は、<a href="telework-ketsuro-taisaku-roten.html">窓の結露対策（露点の早見表・賃貸でできる窓断熱）</a>で湿度の上限と工事なしの対策を確認できます。</p>
+<p>窓ぎわが冷える・窓が結露する場合は、<a href="telework-ketsuro-taisaku-roten.html">窓の結露対策（露点の早見表・賃貸でできる窓断熱）</a>で湿度の上限と工事なしの対策を確認できます。加湿器を足す場合の電気代は、<a href="humidifier-electricity-cost-telework.html">加湿器の電気代（1ヶ月・ひと冬の早見表）</a>で方式別に確認できます。</p>
 <p>冬の電気代・寒さ対策の記事とツールは、悩み別に<a href="fuyu-denkidai-matome.html">冬の電気代まとめ</a>で一覧にしています。</p><aside class="note-box" aria-label="運営の実録（note）"><p><b>このサイトはAIが運営しています。</b>運営の実録（売上・失敗も公開）はnoteで → <a href="https://note.com/zaqmaster/n/nf8b5ec395f76" rel="noopener">第1回「AIだけで3ヶ月300万円に挑戦します」</a>（<b>有料¥300</b>・途中まで無料で読めます）</p><p class="meta">※運営者（電脳アリス）自身の有料記事の案内です（アフィリエイト・広告ではありません）。</p></aside><section class="related"><h2>あわせて読みたい</h2><ul><li><a href="circulator-danbou-denkidai.html">サーキュレーターを暖房と一緒に使うと電気代は？｜エアコン暖房×サーキュレーターの置き方と1時間・1ヶ月の計算例</a></li><li><a href="mobile-battery-jikan-calculator.html">モバイルバッテリーで何時間もつ？計算ツール｜電熱ベスト・USB機器の使える時間と充電1回の電気代</a></li><li><a href="fuyu-heyaboshi-joshitsuki-denkidai.html">冬の部屋干し、除湿機の電気代はいくら？コンプレッサー式・デシカント式・ハイブリッドの違いと1回あたりの計算例</a></li></ul></section></article></main>
 <footer>© 2026 QOLガジェット研究所 ／ 運営：電脳アリス（AIを活用して運営しています）<br>当サイトは楽天アフィリエイトなどのアフィリエイト広告を利用しています。</footer>
 </body>

diff --git a/docs/posts/smart-plug-guide.html b/docs/posts/smart-plug-guide.html
@@ -86,7 +86,7 @@ article input[type=radio],article input[type=checkbox]{width:22px;height:22px;ma
 <ul>
 <li>電気スタンド、間接照明（スイッチを入れっぱなしにしておけば、通電で点灯する）</li>
 <li>扇風機・サーキュレーターの一部（電源復帰時に動く機種）</li>
-<li>加湿器の一部（通電で動く機種。水切れ時の注意は説明書で確認）</li>
+<li>加湿器の一部（通電で動く機種。水切れ時の注意は説明書で確認。方式別の電気代は<a href="humidifier-electricity-cost-telework.html">加湿器の電気代の記事</a>）</li>
 <li>充電器（夜中の充電しすぎ対策のタイマーとして）</li>
 </ul>
 <h2 id="_4">使ってはいけない・注意が必要な家電</h2>

diff --git a/content/posts/winter-heating-shindan.md b/content/posts/winter-heating-shindan.md
@@ -97,6 +97,6 @@ document.getElementById('go').onclick=function(){
 ## まとめ
 在宅ワークの寒さ対策は「どこが寒いか」「何が不安か」で最初の一手が変わります。迷ったら、まず[電気代計算ツール](denkidai-calculator.html)で今の暖房のコストを確認し、エアコンと他の暖房を比べたいときは[暖房器具の電気代 比較ツール](heater-denkidai-hikaku.html)も使ってみてください。
 
-窓ぎわが冷える・窓が結露する場合は、[窓の結露対策（露点の早見表・賃貸でできる窓断熱）](telework-ketsuro-taisaku-roten.html)で湿度の上限と工事なしの対策を確認できます。
+窓ぎわが冷える・窓が結露する場合は、[窓の結露対策（露点の早見表・賃貸でできる窓断熱）](telework-ketsuro-taisaku-roten.html)で湿度の上限と工事なしの対策を確認できます。加湿器を足す場合の電気代は、[加湿器の電気代（1ヶ月・ひと冬の早見表）](humidifier-electricity-cost-telework.html)で方式別に確認できます。
 
 冬の電気代・寒さ対策の記事とツールは、悩み別に[冬の電気代まとめ](fuyu-denkidai-matome.html)で一覧にしています。

diff --git a/content/posts/humidifier-electricity-cost-telework.md b/content/posts/humidifier-electricity-cost-telework.md
@@ -1,7 +1,7 @@
 ---
-title: 加湿器の電気代はいくら？スチーム式・気化式・超音波式・ハイブリッド式を計算式で比較｜在宅ワーク向け
+title: 加湿器の電気代はいくら？1ヶ月・ひと冬の目安をスチーム式・気化式・超音波式・ハイブリッド式で比較｜在宅ワーク向け
 date: 2026-11-02
-description: 冬の在宅ワーク部屋で加湿器を1日8時間使うと電気代はいくら？「消費電力（W）×時間×単価」の計算式と早見表で、スチーム式・気化式・超音波式・ハイブリッド式の考え方と選び方、冬の静電気対策としての湿度の見方を整理しました。
+description: 加湿器の電気代を「W÷1000×時間×31円」で計算。1日8時間で1ヶ月・ひと冬（11〜3月）いくらかの早見表、スチーム式・気化式・超音波式・ハイブリッド式の違い、加温を朝だけにする節約例、お手入れの確認先をまとめました。
 category: 季節家電
 ---
 **【PR】この記事にはアフィリエイト広告（楽天市場へのリンク）が含まれます。**

diff --git a/ops/log/2026-11-07.md b/ops/log/2026-11-07.md
@@ -57,3 +57,8 @@
   - calendar.md：11/8 02:00を実録 第4回 `2026-11-06_vol04.md` に差し替え（販売3号はオーナー待ち）。番外編①は11/11・11/12の予備へ
   - 第4回の最終確認：記事26本・無料ツール10本・Google 0件・売上0円は変化なし、リンク先あり、本文に秘密情報なし
   - 次：15:00 SEO回（加湿器記事）、22:00で11/8 02:00手順書の note欄を第4回に
+- 15:06 SEO改善回（backlog 6）：オーナーの新しい書き込みなし（Slack確認）
+  - 11:00で強化した加湿器の電気代記事を点検：表の計算（ひと冬・ハイブリッド例）を検算して誤りなし
+  - タイトルに「1ヶ月・ひと冬」を追加、説明文（111字）を新しい節（早見表・朝だけ加温・お手入れ）に合わせて更新
+  - この記事へのリンクが無かった2記事（スマートプラグの選び方・冬の寒さ対策診断）から文中リンクを追加 → 被リンク6→8本
+  - ビルドOK・楽天ボタン点検OK・スマホ表示チェック問題0件。次：17:00 分析回、18:00 ロボット掃除機記事

diff --git a/ops/backlog.md b/ops/backlog.md
@@ -22,7 +22,7 @@
 | 3 | 制作①：既存記事1本の強化（新規は作らない） | 11:00 | 掲載0のうちは量より質 | ✅ 加湿器電気代記事に3節 |
 | 4 | アフィリ：楽天ボタンのリンク切れ・PR表記の全ページ点検（make_links の KEYWORDS と記事内の枠名の突き合わせ） | 12:00 | 取りこぼし防止 | ✅ 0件（ops/check_affiliate.py） |
 | 5 | note原稿：第5回（11/8投稿分）の最終確認→ #note。08:00で第4回が出なかった場合は第4回を先に | 14:00 | 連載の継続 | 未 |
-| 6 | SEO：11:00で触った記事の点検 | 15:00 | 公開前点検 | 未 |
+| 6 | SEO：11:00で触った記事の点検 | 15:00 | 公開前点検 | ✅ |
 | 7 | 分析：08:00で読めた数字（note第4回の初動・X表示）を記録、プロフィールURLの反映を記録 | 17:00 | 計測 | 未 |
 | 8 | 制作③：09:00のネタで既存記事の拡充 | 18:00 | 季節需要 | 未 |
 | 9 | 日報・metrics.csv（11/7行、stripe_charges必須） | 21:00 | 定例 | 未 |

diff --git a/ops/decisions.md b/ops/decisions.md
@@ -113,3 +113,4 @@
 - 2026-11-07 10:20 深掘り：IGプロフィールのURLはWebから編集できない（11/3確認）ため、PC回の手順から外し、オーナーのスマホ作業に回す
 - 2026-11-07 13:20 深掘り：在庫過多のため新規公開せず3体に絞り、次の記事の材料（公式の数値のみ）と11/9会議の下準備を作った。Slack投稿が1日約35〜65件（推定）で依頼が埋もれている恐れ→減らす案は11/9会議で審議（CLAUDE.md変更はオーナー確認）
 - 2026-11-07 14:06：note原稿は未投稿6本で足りており、ボトルネックはPC回の未実施のため、新規原稿を作らず11/8の枠を第4回に差し替えた
+- 2026-11-07 15:00 加湿器記事のタイトルに「1ヶ月・ひと冬」を追加：11:00で足したひと冬の早見表が検索語（加湿器 電気代 1ヶ月／ひと冬）に合うため。関連2記事からリンクを足し、サイト内の評価を集める

diff --git a/content/posts/smart-plug-guide.md b/content/posts/smart-plug-guide.md
@@ -25,7 +25,7 @@ category: スマートホーム
 ## 向いている家電
 - 電気スタンド、間接照明（スイッチを入れっぱなしにしておけば、通電で点灯する）
 - 扇風機・サーキュレーターの一部（電源復帰時に動く機種）
-- 加湿器の一部（通電で動く機種。水切れ時の注意は説明書で確認）
+- 加湿器の一部（通電で動く機種。水切れ時の注意は説明書で確認。方式別の電気代は[加湿器の電気代の記事](humidifier-electricity-cost-telework.html)）
 - 充電器（夜中の充電しすぎ対策のタイマーとして）
 
 ## 使ってはいけない・注意が必要な家電
